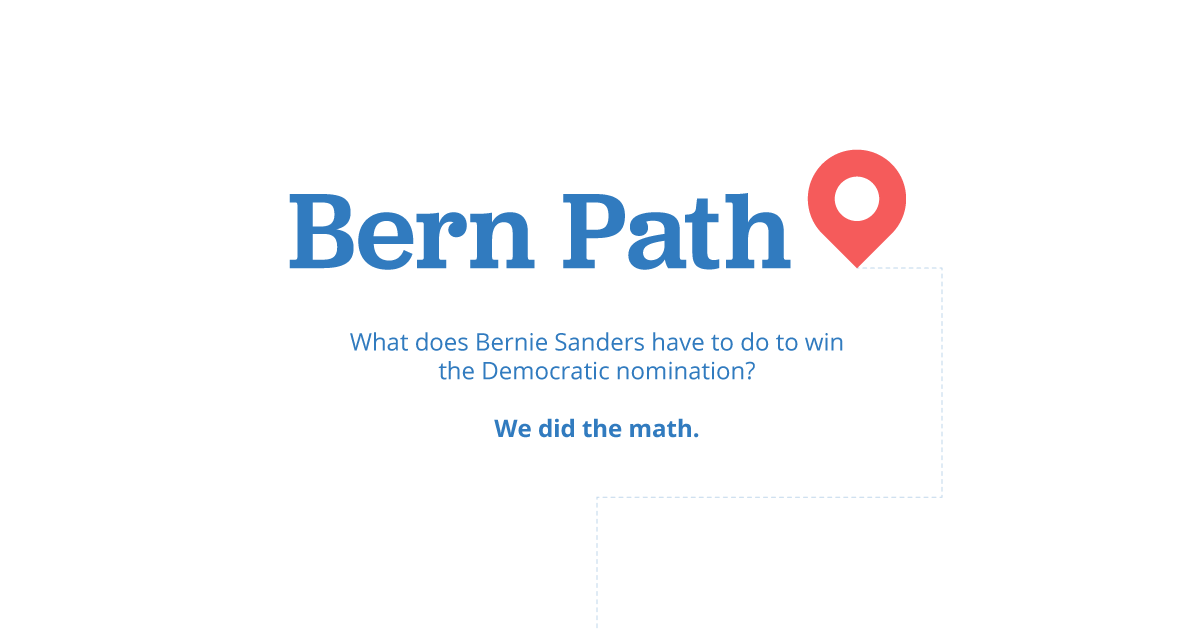
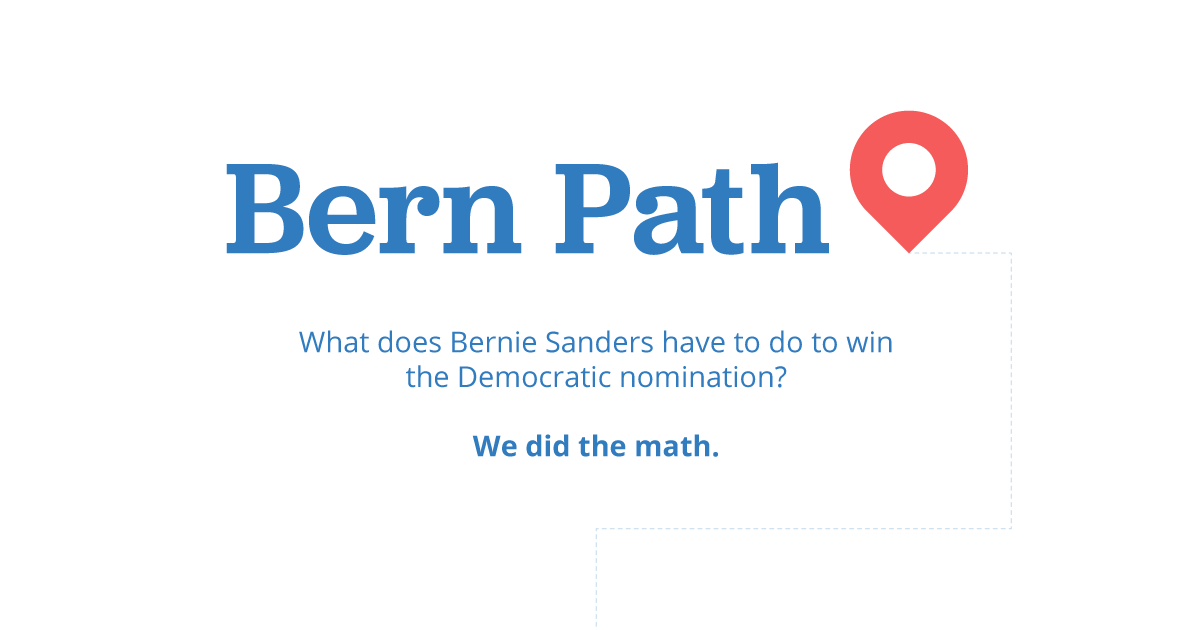
FB image

Changed region(s): [[0.185, 0.1508, 0.8325, 0.4524], [0.2467, 0.5127, 0.74, 0.6333], [0.37, 0.6635, 0.6167, 0.7238]]

diff --git a/polichart/templates/layouts/bern-path.html b/polichart/templates/layouts/bern-path.html
@@ -16,7 +16,7 @@
     <!-- Open Graph data -->
     <meta property="og:title" content="PoliChart" />
     <meta property="og:url" content="http://polichart.com/interactives/bern-path" />
-    <meta property="og:image" content="http://polichart.com/{{ url_for('static', filename='img/fb-bern-path-alt.png') }}" />
+    <meta property="og:image" content="http://polichart.com/{{ url_for('static', filename='img/fb-bern-path.png') }}" />
     <meta property="og:description" content="What does Bernie Sanders have to do to win the Democratic nomination? We did the math." />
 
     <link rel="Shortcut Icon" href="{{ url_for('static', filename='favicon.png') }}" type="image/x-icon">
